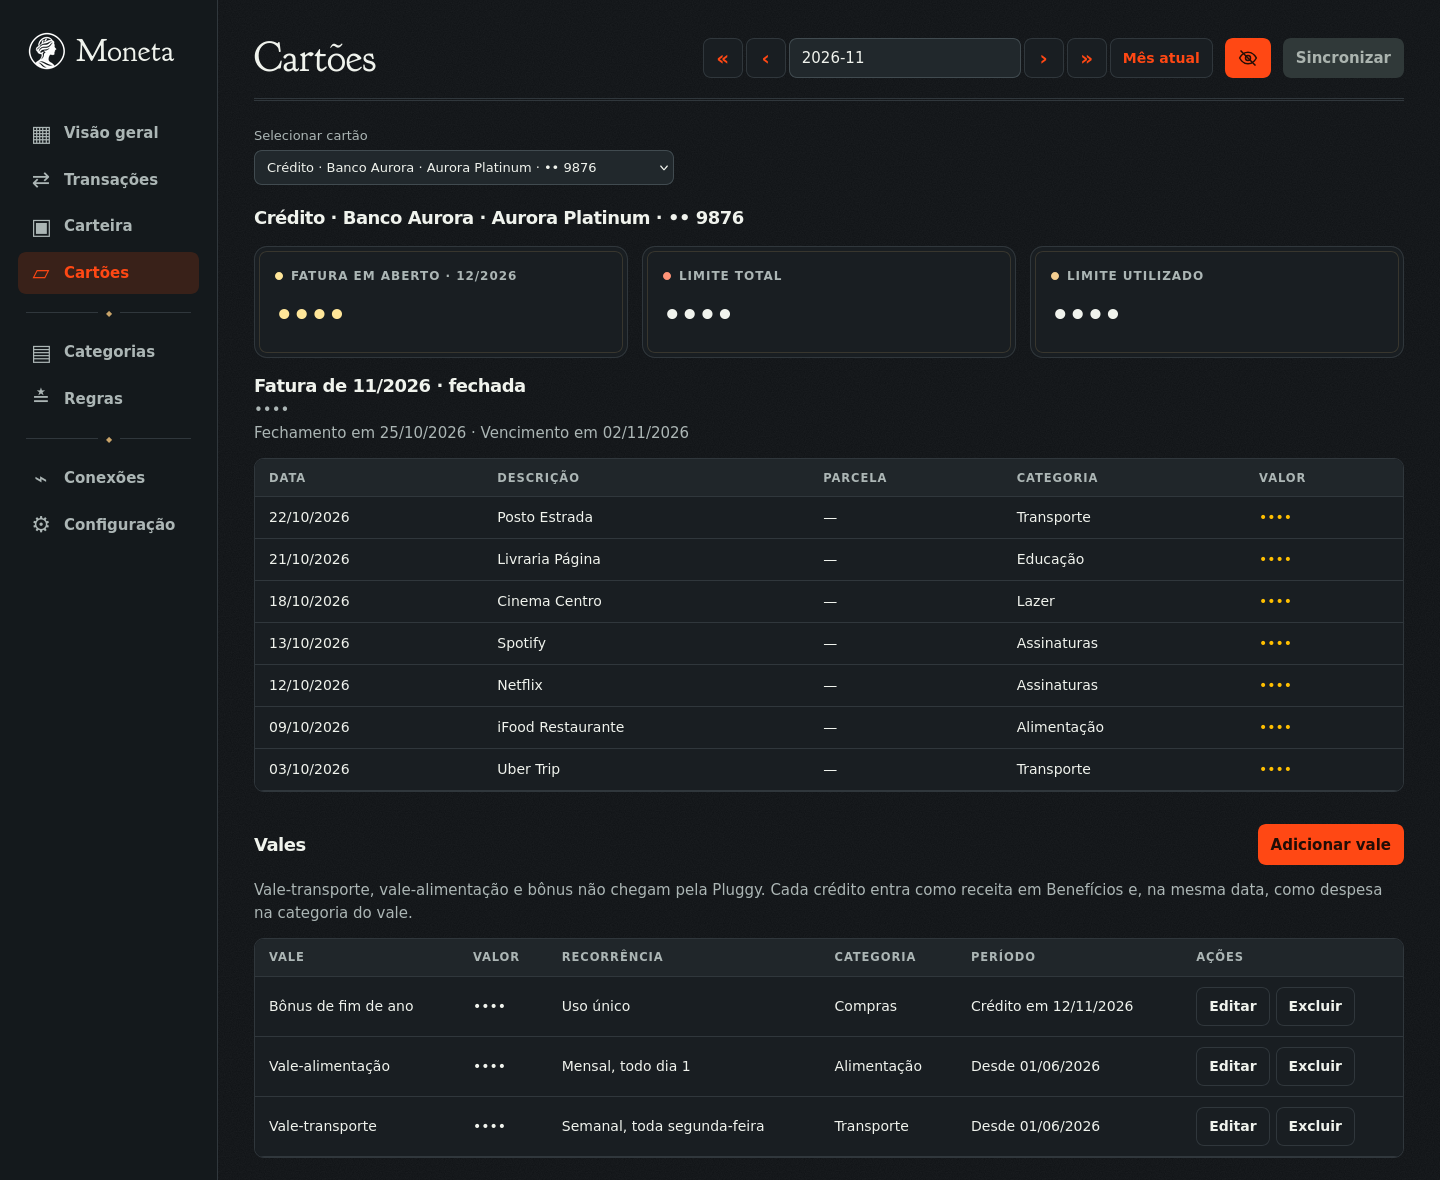
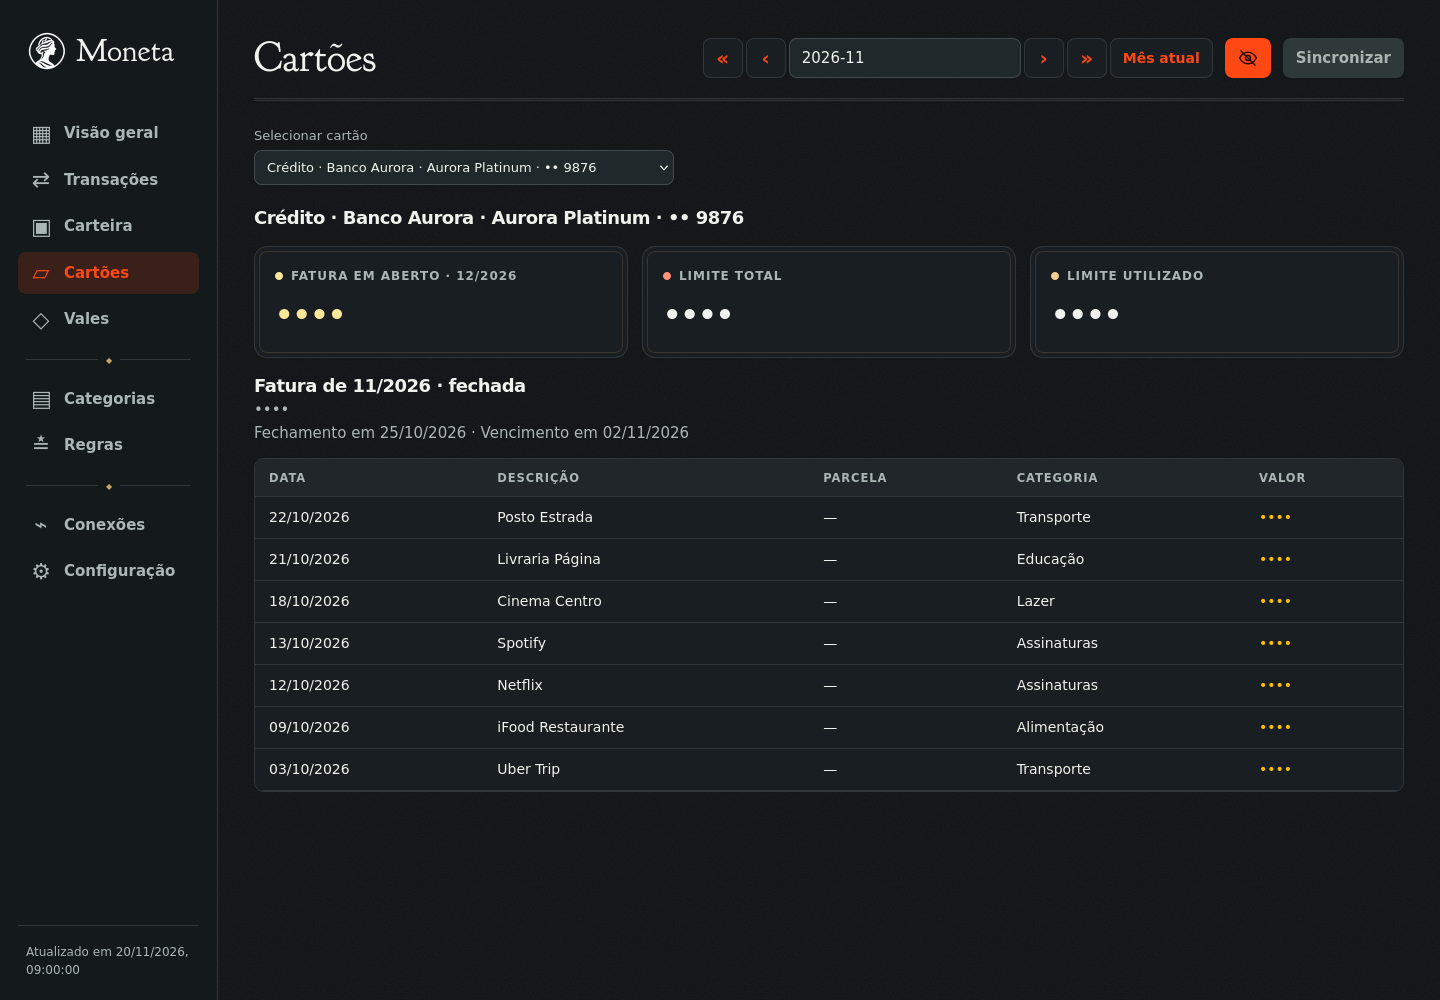
feat: vales ganham uma página própria no menu
O cadastro fica no topo, com o total do mês, os vales cadastrados e os créditos
do mês. O seletor de cartões volta a listar só cartões e contas.

diff --git a/public/index.html b/public/index.html
@@ -1,7 +1,7 @@
 <!doctype html>
 <html lang="pt-BR"><head><meta charset="utf-8"><meta name="viewport" content="width=device-width,initial-scale=1">
 <title>Moneta</title><script>/* Aplica o tema antes da primeira pintura. */(()=>{const c=localStorage.getItem("moneta-theme");document.documentElement.dataset.theme=c==="light"||(c==="system"&&matchMedia("(prefers-color-scheme: light)").matches)?"light":"dark"})()</script><link rel="icon" type="image/png" href="/favicon-96x96.png" sizes="96x96"><link rel="icon" type="image/svg+xml" href="/favicon.svg"><link rel="shortcut icon" href="/favicon.ico"><link rel="apple-touch-icon" sizes="180x180" href="/apple-touch-icon.png"><meta name="apple-mobile-web-app-title" content="Moneta"><link rel="manifest" href="/site.webmanifest"><link rel="stylesheet" href="/style.css">
-</head><body><aside><a class="brand" href="#relatorio"><img src="/logo.png" alt="" width="38" height="38">Moneta</a><nav aria-label="Navegação principal"><a href="#relatorio"><i aria-hidden="true">▦</i>Visão geral</a><a href="#transacoes"><i aria-hidden="true">⇄</i>Transações</a><a href="#carteira"><i aria-hidden="true">▣</i>Carteira</a><a href="#cartoes"><i aria-hidden="true">▱</i>Cartões</a><hr><a href="#categorias"><i aria-hidden="true">▤</i>Categorias</a><a href="#regras"><i aria-hidden="true">≛</i>Regras</a><hr><a href="#conexoes"><i aria-hidden="true">⌁</i>Conexões</a><a href="#configuracao"><i aria-hidden="true">⚙</i>Configuração</a></nav><div id="fresh" role="status">Carregando dados…</div></aside><main>
+</head><body><aside><a class="brand" href="#relatorio"><img src="/logo.png" alt="" width="38" height="38">Moneta</a><nav aria-label="Navegação principal"><a href="#relatorio"><i aria-hidden="true">▦</i>Visão geral</a><a href="#transacoes"><i aria-hidden="true">⇄</i>Transações</a><a href="#carteira"><i aria-hidden="true">▣</i>Carteira</a><a href="#cartoes"><i aria-hidden="true">▱</i>Cartões</a><a href="#vales"><i aria-hidden="true">◇</i>Vales</a><hr><a href="#categorias"><i aria-hidden="true">▤</i>Categorias</a><a href="#regras"><i aria-hidden="true">≛</i>Regras</a><hr><a href="#conexoes"><i aria-hidden="true">⌁</i>Conexões</a><a href="#configuracao"><i aria-hidden="true">⚙</i>Configuração</a></nav><div id="fresh" role="status">Carregando dados…</div></aside><main>
 <header class="topbar"><h1 id="page-title">Visão geral</h1><div class="toolbar"><div id="period" role="group" aria-label="Período do relatório">
 <button type="button" data-month-step="-12" aria-label="Ano anterior" title="Ano anterior">«</button>
 <button type="button" data-month-step="-1" aria-label="Mês anterior" title="Mês anterior">‹</button>
@@ -43,10 +43,11 @@
 <label>Descrição<input name="description" maxlength="100"></label><button>Registrar</button></form>
 <p>Adicionar e retirar saldo ajustam a carteira. Receitas e despesas em dinheiro entram no resultado do mês.</p>
 <h2>Movimentações do mês</h2><div id="wallet-list"></div></section>
-<section id="cartoes" hidden><label>Selecionar cartão<select id="card"></select></label><div id="card-detail"></div>
-<div class="panel-title vouchers-title"><h2>Vales</h2><button type="button" id="new-voucher">Adicionar vale</button></div>
-<p>Vale-transporte, vale-alimentação e bônus não chegam pela Pluggy. Cada crédito entra como receita em Benefícios e, na mesma data, como despesa na categoria do vale.</p>
-<div id="voucher-list"></div>
+<section id="cartoes" hidden><label>Selecionar cartão<select id="card"></select></label><div id="card-detail"></div></section>
+<section id="vales" hidden><div class="page-intro"><p>Vale-transporte, vale-alimentação e bônus não chegam pela Pluggy. Cada crédito entra como receita em Benefícios e, na mesma data, como despesa na categoria do vale.</p><button type="button" id="new-voucher">Adicionar vale</button></div>
+<div id="voucher-month"></div>
+<h2>Vales cadastrados</h2><div id="voucher-list"></div>
+<h2>Créditos do mês</h2><div id="voucher-credits"></div>
 <dialog id="voucher-editor" aria-labelledby="voucher-heading"><form id="voucher-form">
 <h2 id="voucher-heading">Adicionar vale</h2>
 <label>Nome<input name="name" required maxlength="100" placeholder="Vale-alimentação"></label>

diff --git a/public/finance.js b/public/finance.js
@@ -275,23 +275,14 @@ function cardAmount(tx) {
   return value;
 }
 function cards() {
-  vouchers();
-  const list = data.accounts.filter(a => ['CREDIT','BANK','VOUCHER'].includes(a.type) && a.currency === currency.value);
-  const cardName = a => a.type === 'VOUCHER' ? 'Vale · '+a.name : [a.type === 'BANK' ? 'Débito' : 'Crédito',a.institution,a.kind || (a.name !== a.institution ? a.name : ''),a.last4 && '•• '+a.last4].filter(Boolean).join(' · ');
+  const list = data.accounts.filter(a => ['CREDIT','BANK'].includes(a.type) && a.currency === currency.value);
+  const cardName = a => [a.type === 'BANK' ? 'Débito' : 'Crédito',a.institution,a.kind || (a.name !== a.institution ? a.name : ''),a.last4 && '•• '+a.last4].filter(Boolean).join(' · ');
   choices($('#card'),list.map(a => [a.id,cardName(a)]));
   const card = list.find(a => a.id === $('#card').value);
   const pane = $('#card-detail');
   if (!card) {pane.replaceChildren(tag('p','Nenhum cartão ou conta sincronizada nesta moeda.')); return;}
   pane.replaceChildren(tag('h2',cardName(card)));
   if (!month.value) return;
-  if (card.type === 'VOUCHER') {
-    const voucher = data.vouchers.find(v => 'voucher-'+v.id === card.id);
-    const spent = periodRows().filter(t => t.account === card.id && t.amount < 0);
-    pane.append(metrics([['Creditado e gasto no mês',-sum(spent,t => t.amount),'purchase-metric'],['Valor de cada crédito',voucher.amount]]),
-      tag('p',recurrence(voucher)+' · '+voucherPeriod(voucher)),
-      table(['Data','Descrição','Categoria','Valor'],spent.map(t => [formatDate(t.date),t.description,categoryName(t.category),cardAmount(t)]),'Nenhum crédito deste vale no mês.'));
-    return;
-  }
   if (card.type === 'BANK') {
     const accountDebits = periodRows().filter(t => t.account === card.id && t.amount < 0);
     const debitPurchases = accountDebits.filter(t => /^(?:CARTAO|COMPRA_CARTAO|CARTAO_(?:DE_)?DEBITO|COMPRA_CARTAO_(?:DE_)?DEBITO)$/.test(t.operation) ||
@@ -336,6 +327,14 @@ function voucherPeriod(v) {
 }
 function vouchers() {
   const list = data.vouchers.filter(v => v.currency === currency.value);
+  const credits = periodRows().filter(t => t.account.startsWith('voucher-') && t.amount < 0);
+  const month = metrics([['Creditado e gasto no mês',-sum(credits,t => t.amount),'purchase-metric'],['Créditos no mês',null]]);
+  // A segunda métrica é uma contagem, não um valor em dinheiro.
+  month.children[1].querySelector('strong').textContent = String(credits.length);
+  $('#voucher-month').replaceChildren(month);
+  const names = new Map(list.map(v => ['voucher-'+v.id,v.name]));
+  $('#voucher-credits').replaceChildren(table(['Data','Vale','Categoria','Valor'],credits.map(t =>
+    [formatDate(t.date),names.get(t.account) ?? t.description,categoryName(t.category),cardAmount(t)]),'Nenhum crédito de vale neste mês.'));
   $('#voucher-list').replaceChildren(table(['Vale','Valor','Recorrência','Categoria','Período','Ações'],list.map(v => {
     const actions = tag('div'), edit = tag('button','Editar'), remove = tag('button','Excluir');
     actions.className = 'rule-actions';
@@ -571,7 +570,7 @@ export function navigate() {
   for (const s of document.querySelectorAll('main > section')) s.hidden = s.id !== page;
   for (const a of document.querySelectorAll('nav a')) a.setAttribute('aria-current',a.hash === '#'+page ? 'page' : 'false');
   $('#page-title').textContent = document.querySelector('nav a[aria-current=page]').lastChild.textContent;
-  $('.toolbar').hidden = !['relatorio','transacoes','cartoes','carteira','conexoes'].includes(page);
+  $('.toolbar').hidden = !['relatorio','transacoes','cartoes','vales','carteira','conexoes'].includes(page);
   $('#period').hidden = page === 'conexoes' || (page === 'relatorio' && portfolioTab) || (page === 'transacoes' && allMonths());
   if (!data) return;
   if (page !== 'transacoes' || !search) {
@@ -614,6 +613,7 @@ export function navigate() {
       .map(t => [formatDate(t.date),t.description,money(t.amount)]),'Nenhuma movimentação neste mês.'));
   }
   if (page === 'cartoes') cards();
+  if (page === 'vales') vouchers();
   if (page === 'transacoes') ledger();
   if (['categorias','regras'].includes(page)) manage(page);
 }

diff --git a/public/style.css b/public/style.css
@@ -115,7 +115,11 @@ section:not(#relatorio)>p,section:not(#relatorio)>h2 { margin:14px 0 }
 #voucher-form { display:grid; margin:0; gap:14px; align-items:stretch; padding:0; border:0; background:none }
 #voucher-form h2 { margin:0 }
 #voucher-error:empty { display:none }
-.vouchers-title { margin-top:32px }
+.page-intro { display:flex; align-items:center; justify-content:space-between; gap:12px 24px; flex-wrap:wrap; margin-bottom:20px }
+.page-intro p { flex:1 1 28rem; margin:0 }
+#vales h2 { margin-top:28px }
+#vales .purchase-metric strong { color:var(--expense-ink) }
+#vales .purchase-metric span::before { background:var(--expense) }
 #tx-form { display:grid; margin:0; gap:14px; align-items:stretch }
 #tx-form textarea { padding:10px; border:1px solid var(--line); border-radius:8px; background:var(--canvas); color:var(--text); font:inherit; resize:vertical }
 #tx-error:empty { display:none }

diff --git a/README.md b/README.md
@@ -19,9 +19,8 @@ As imagens usam uma base de demonstração com dados fictícios e o modo que ocu
 | | |
 | --- | --- |
 | ![Visão geral no tema claro](docs/screenshots/visao-geral-claro.png) | ![Evolução do patrimônio e dos investimentos ao longo do ano](docs/screenshots/patrimonio.png) |
-| ![Lista de transações com conta, categoria e situação](docs/screenshots/transacoes.png) | ![Fatura do cartão de crédito e vales cadastrados](docs/screenshots/cartoes.png) |
-
-![Regras de categorização com filtro de origem, ordenação e exportação](docs/screenshots/regras.png)
+| ![Lista de transações com conta, categoria e situação](docs/screenshots/transacoes.png) | ![Fatura do cartão de crédito com as compras do ciclo](docs/screenshots/cartoes.png) |
+| ![Vales cadastrados e créditos do mês](docs/screenshots/vales.png) | ![Regras de categorização com filtro de origem, ordenação e exportação](docs/screenshots/regras.png) |
 
 ## Requisitos
 
@@ -104,16 +103,16 @@ Ao lado do saldo em dinheiro, **Saldo nos bancos** soma as contas bancárias na 
 
 Mostra cada cartão de crédito com as compras do ciclo (inclusive parcelas), a situação da fatura (fechada, em aberto ou estimada), o limite total e o limite utilizado. Faturas fechadas continuam disponíveis mesmo depois que saem da janela de histórico da Pluggy.
 
-#### Vales
+### Vales
 
-Vale-transporte, vale-alimentação e outros benefícios não chegam pela Pluggy. Em **Cartões → Vales**, clique em **Adicionar vale** e informe o nome, o valor de cada crédito, a categoria do gasto e a recorrência:
+Vale-transporte, vale-alimentação e outros benefícios não chegam pela Pluggy. Na página **Vales**, clique em **Adicionar vale** e informe o nome, o valor de cada crédito, a categoria do gasto e a recorrência:
 
 - **Mensal:** todo mês no dia do primeiro crédito. Nos meses sem esse dia (31, por exemplo), cai no último dia do mês;
 - **Semanal:** toda semana no mesmo dia da semana do primeiro crédito;
 - **Diária:** todos os dias, ou só de segunda a sexta com **Só dias úteis**, como num vale-transporte;
 - **Uso único:** um crédito só, como um bônus.
 
-Cada crédito, até a data de hoje, entra no mês como receita na categoria **Benefícios** e, na mesma data, como despesa na categoria do vale. O total de despesas passa a incluir o que foi pago com vale, com um item próprio, **Vales**, e o resultado do mês não muda. Os vales também aparecem no seletor de cartões, com os créditos do mês.
+Cada crédito, até a data de hoje, entra no mês como receita na categoria **Benefícios** e, na mesma data, como despesa na categoria do vale. O total de despesas passa a incluir o que foi pago com vale, com um item próprio, **Vales**, e o resultado do mês não muda. A página mostra o total creditado no mês, os vales cadastrados e cada crédito do mês selecionado.
 
 Para parar um vale recorrente sem perder o histórico, edite-o e informe o **Último crédito**. Editar o valor ou a recorrência recalcula todos os créditos do vale. Para mudar só daqui em diante, encerre o vale atual e crie outro. **Excluir** remove o vale e todos os créditos já lançados por ele.
 
@@ -139,7 +138,7 @@ Define a moeda padrão, o tema (escuro, claro ou igual ao sistema, guardado nest
 
 ### Barra superior
 
-Nas páginas que dependem do mês (Visão geral, Transações, Carteira e Cartões), a barra superior tem os mesmos controles e no mesmo lugar: ano e mês anterior, o seletor de mês, mês e ano seguinte e **Mês atual**, que volta ao mês corrente. O botão com o ícone de olho oculta os valores da tela.
+Nas páginas que dependem do mês (Visão geral, Transações, Carteira, Cartões e Vales), a barra superior tem os mesmos controles e no mesmo lugar: ano e mês anterior, o seletor de mês, mês e ano seguinte e **Mês atual**, que volta ao mês corrente. O botão com o ícone de olho oculta os valores da tela.
 
 ## Como uma transação é classificada
 
